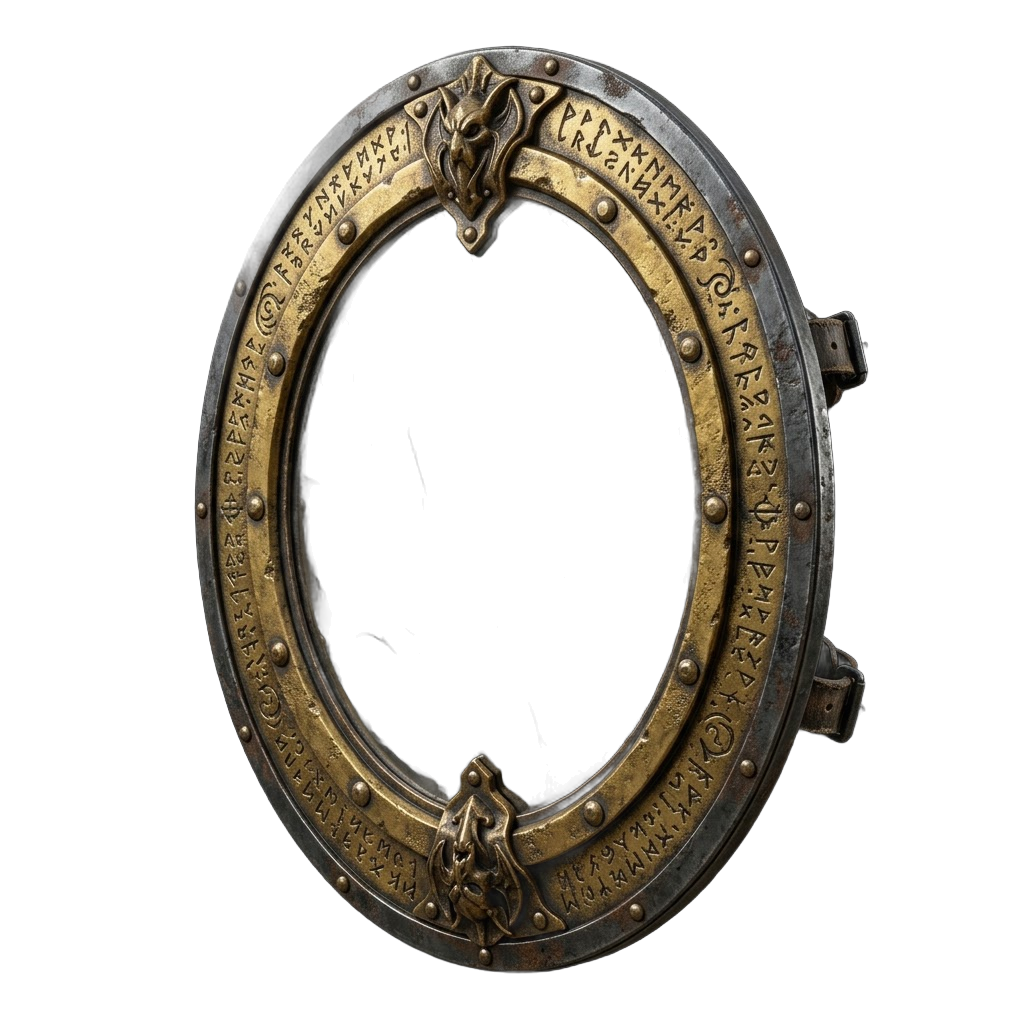
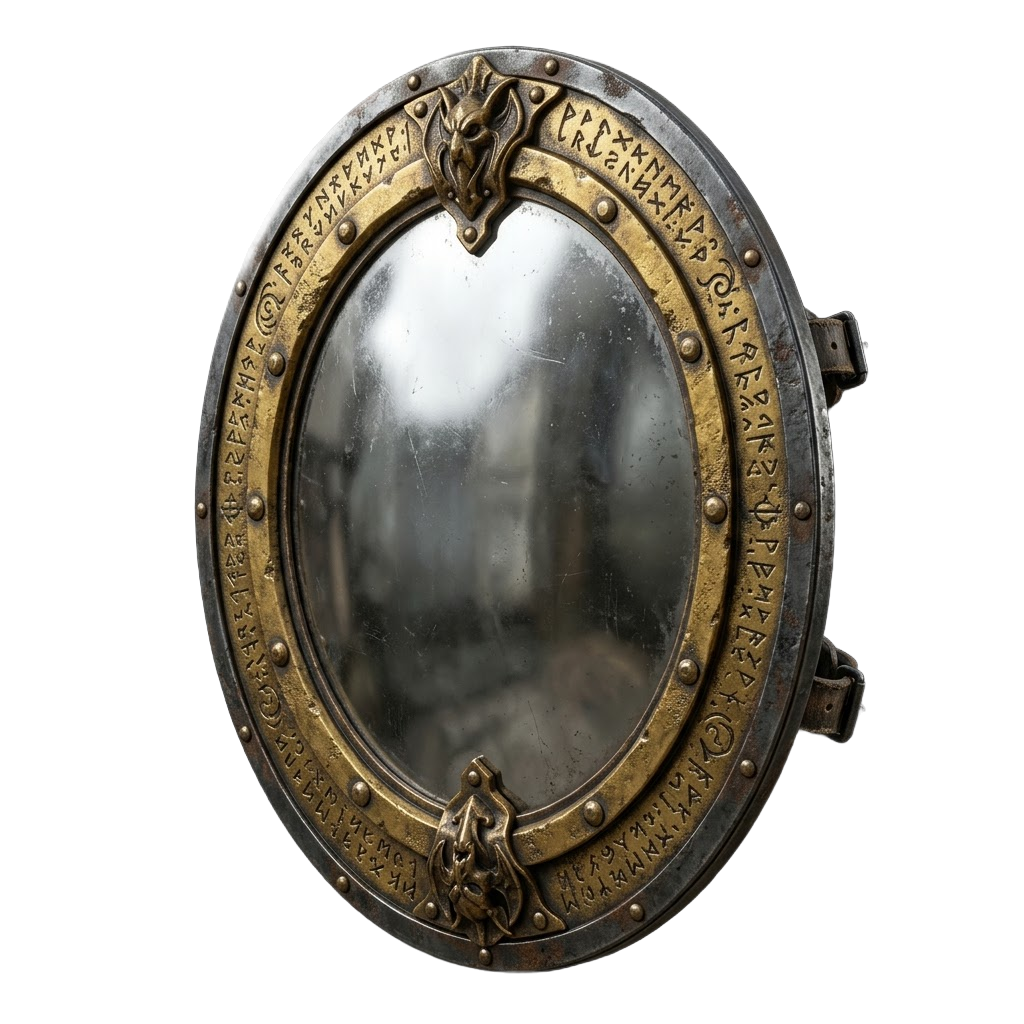
v7.02: corretto ritaglio s84.png (Scudo Specchio Arcano) preservando la superficie a specchio interna

diff --git a/index.html b/index.html
@@ -2134,7 +2134,7 @@ body::before {
     <div class="mk-vitals" style="margin-top:8px">
       <div class="mk-vital">
         <span class="mk-vital-cap">Versione</span>
-        <div id="app-version" class="mk-vital-val" style="color:var(--gold-light)">7.01</div>
+        <div id="app-version" class="mk-vital-val" style="color:var(--gold-light)">7.02</div>
       </div>
       <div class="mk-vital">
         <span class="mk-vital-cap">Rilascio</span>
@@ -2171,6 +2171,6 @@ body::before {
   <div class="modal-box" id="detail-modal-box"></div>
 </div>
 
-<script type="module" src="js/main.js?v=7.01"></script>
+<script type="module" src="js/main.js?v=7.02"></script>
 </body>
 </html>

diff --git a/js/data.js b/js/data.js
@@ -5,7 +5,7 @@
  ============================================================ */
 
 /* ── App info ── */
-export const APP_VERSION = "7.01";
+export const APP_VERSION = "7.02";
 export const APP_RELEASE = "09/11/2026";
 export const APP_DEV = "djiglio.ai";
 
